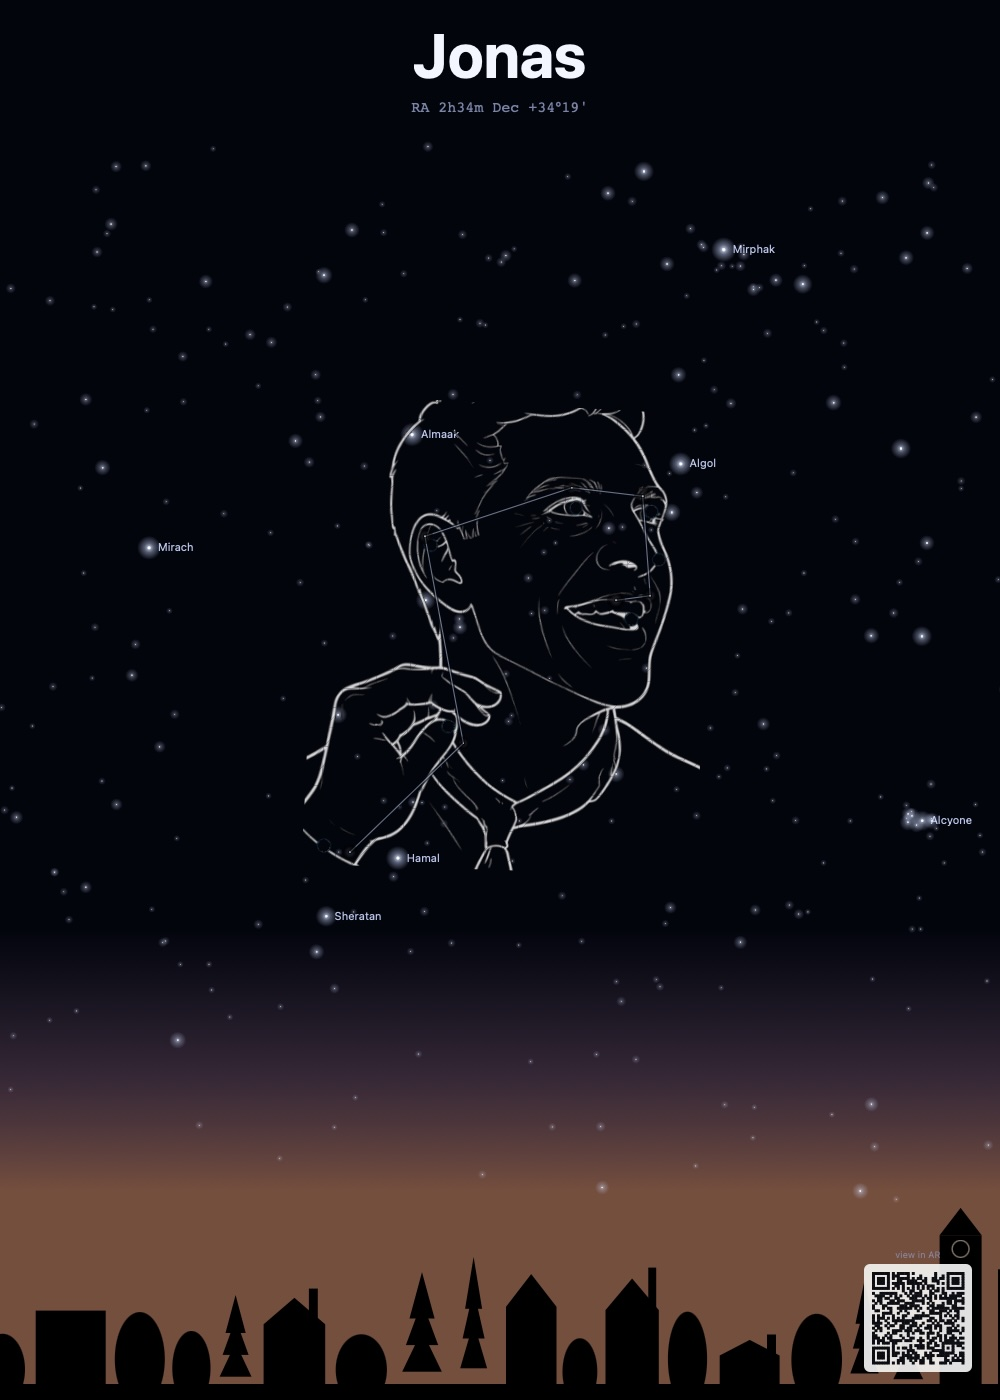
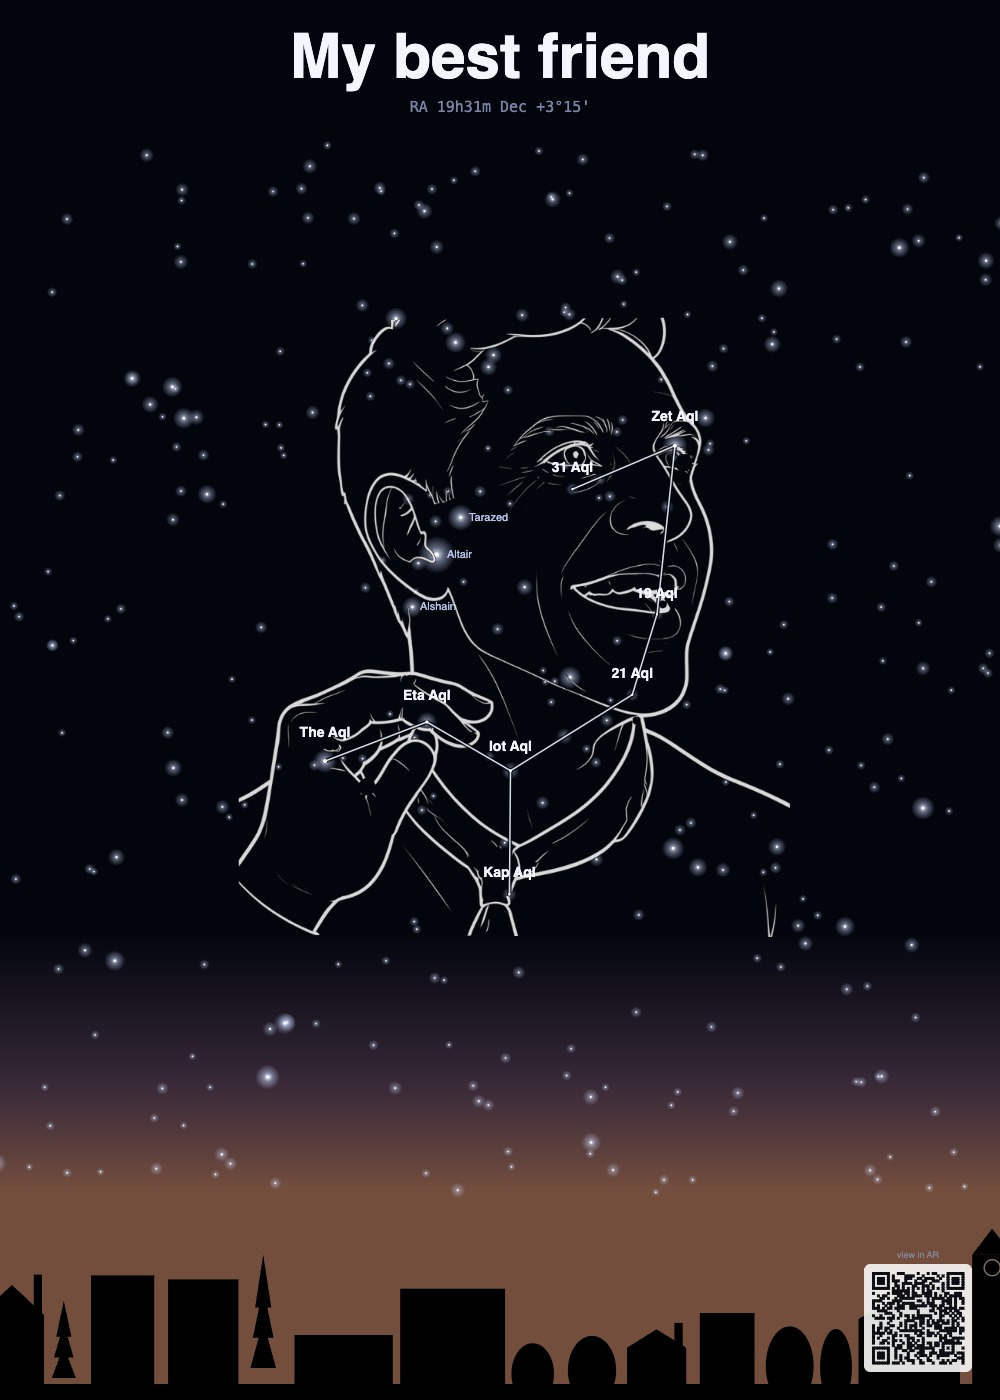
Replace the example poster with the real "My best friend" order
Regenerated from that order's own real data (stars, drawing, projection)
via the app's own poster-rendering code, same as the other example images -
not a copy of the reference screenshot, which isn't something this session
has file access to. Updated the alt text and caption to match (Aquila
stars, near Altair, instead of the old Jonas/Andromeda ones).

diff --git a/order/index.html b/order/index.html
@@ -153,9 +153,9 @@
     <div class="order-showcase">
       <div class="showcase-side">
         <div class="poster-frame">
-          <img src="assets/poster-example.jpg" alt="Example poster: a line-art portrait named Jonas, connected to real stars near RA 2h34m, Dec +34°19'">
+          <img src="assets/poster-example.jpg" alt="Example poster: a line-art portrait named My best friend, connected to real stars near RA 19h31m, Dec +3°15'">
         </div>
-        <div class="poster-caption">An actual customer poster — the lines connect to real stars: Almaak, Algol, Mirach, Hamal, Sheratan.</div>
+        <div class="poster-caption">An actual customer poster — the lines connect to real stars: Zeta, Theta, and Eta Aquilae, near Altair.</div>
       </div>
 
       <div class="showcase-main">
